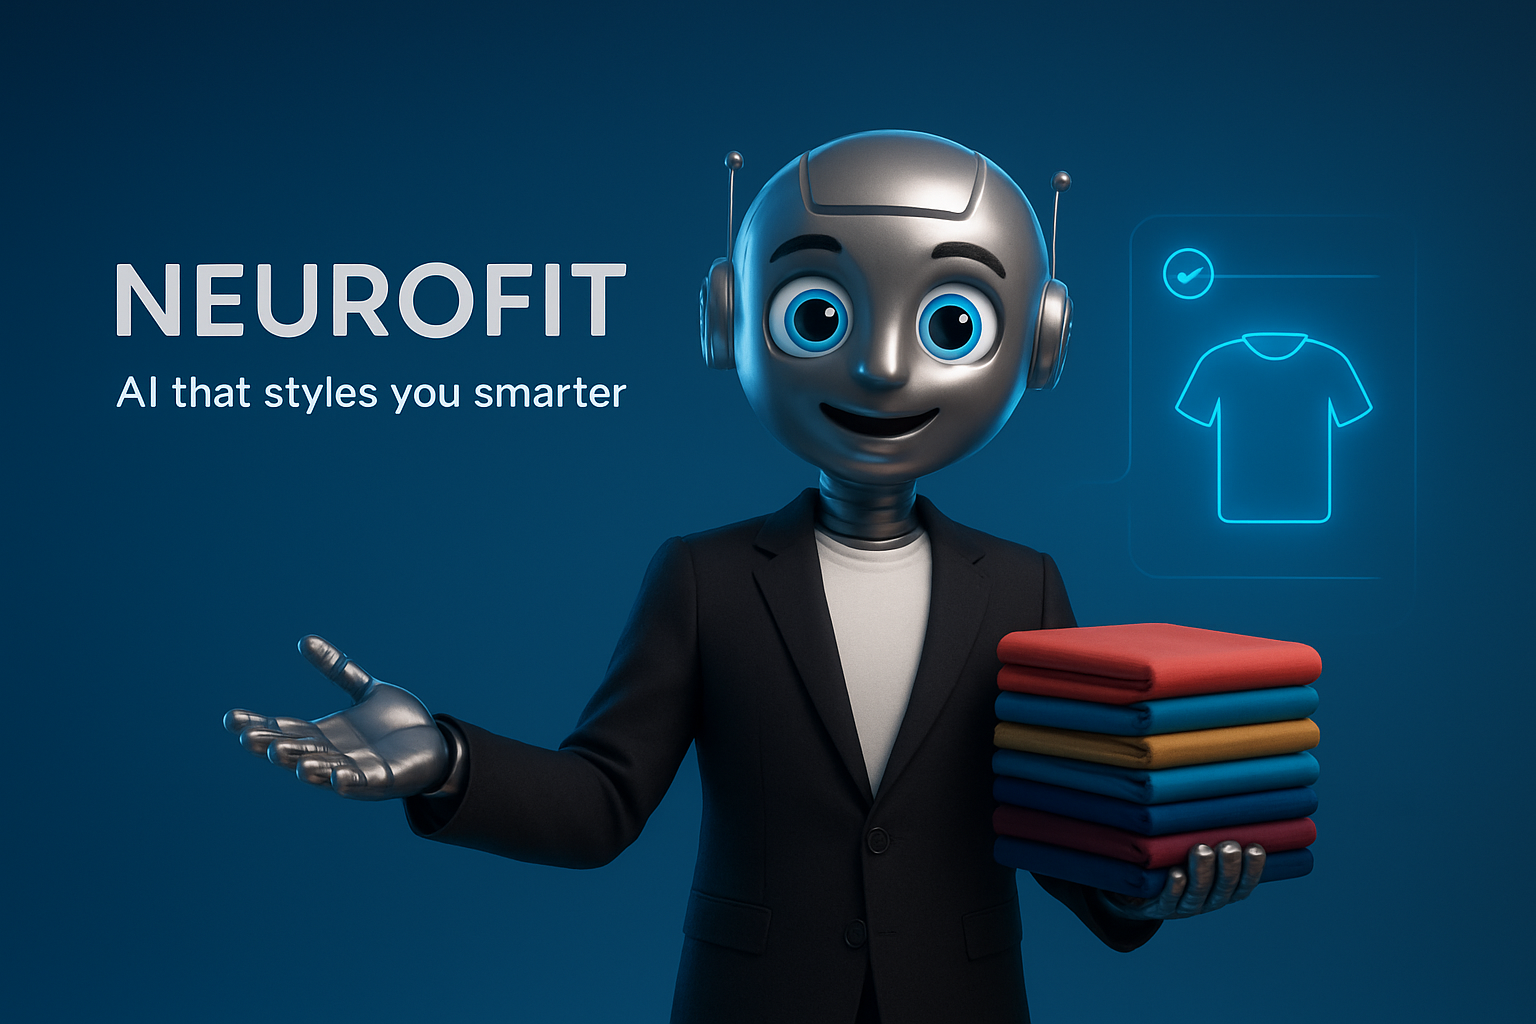
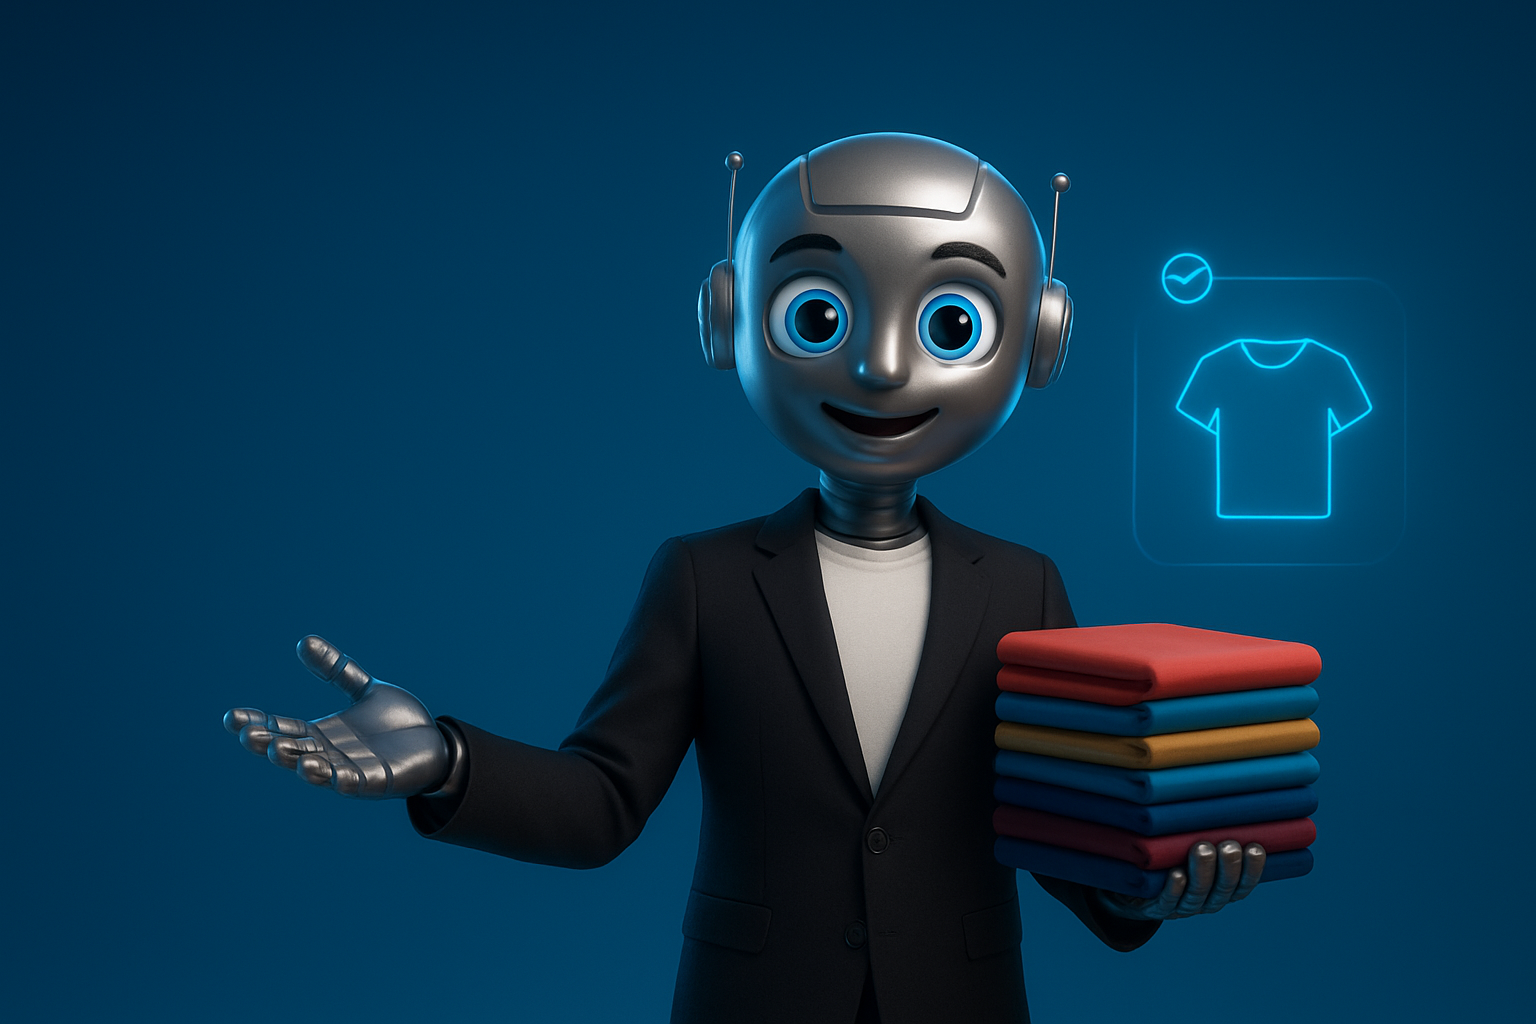
update main page

diff --git a/app/page.tsx b/app/page.tsx
@@ -3,97 +3,113 @@ import Image from "next/image";
 
 export default function Home() {
   return (
-    <main className="flex flex-col items-center space-y-24 py-12">
-      {/* Hero Section */}
-      <section className="relative w-full h-[1000px] overflow-hidden">
-        {/* Background Image */}
+    <main className="flex flex-col items-center w-full">
+
+      {/* 🌟 HERO SECTION */}
+      <section className="relative w-full">
         <Image
           src="/images/main-hero.png"
-          alt="Hero background"
-          fill
+          alt="Hero"
+          width={1920}
+          height={1080}
           priority
-          className="object-cover z-0"
-          sizes="100vw"
+          className="w-full h-auto object-cover"
         />
 
-        {/* Overlay Content */}
-        <div className="absolute inset-0 z-10 flex flex-col items-center justify-center text-center px-4">
-          <h1 className="text-4xl font-bold text-white mb-4">
+        {/* Overlay text */}
+        <div className="absolute inset-0 flex flex-col items-center justify-center text-center px-4 bg-black/20">
+          <h1 className="text-5xl font-bold text-white drop-shadow-lg">
             Welcome to NeuroFit
           </h1>
-          <h2 className="text-xl text-white mb-2">an AI Fashion Store 👗</h2>
-          <p className="text-gray-200 mb-6 max-w-md">
-            See your clothes come to life on AI-generated models.
+
+          <p className="text-white/90 mt-4 text-lg sm:text-xl max-w-xl drop-shadow">
+            AI-powered fashion. Try on styles instantly with generative models.
           </p>
+
           <Link
             href="/generate"
-            className="px-6 py-3 bg-black text-white rounded-lg hover:bg-gray-800 transition text-lg font-semibold shadow-lg"
+            className="mt-6 px-8 py-3 bg-white text-black font-semibold rounded-xl shadow-lg hover:bg-gray-200 transition"
           >
             Try Now
           </Link>
         </div>
       </section>
 
-      {/* Shop Section */}
-      <section className="relative w-full h-auto">
-        {/* Full-width Image Container */}
-        <div className="relative w-full aspect-[2/1]">
-          <Image
-            src="/images/shop-hero.png"
-            alt="Clothing item"
-            fill
-            priority
-            className="object-cover"
-            sizes="100vw"
-          />
+      {/* 🪟 WINDOWS SECTION */}
+      <section className="w-full max-w-6xl px-4 py-20 grid grid-cols-1 sm:grid-cols-2 lg:grid-cols-4 gap-8">
 
-          {/* Centered Button Overlay */}
-          <div className="absolute inset-0 flex items-center justify-center">
-            <Link
-              href="/shop"
-              className="px-6 py-3 bg-blue-600 text-white rounded-lg hover:bg-blue-800 transition text-lg font-semibold shadow-lg"
-            >
-              Shop
-            </Link>
+        {/* SHOP */}
+        <Link href="/shop" className="group">
+          <div className="aspect-square bg-gray-200 rounded-3xl flex items-center justify-center relative overflow-hidden shadow-lg group-hover:shadow-xl transition">
+            <Image
+              src="/images/shop-hero.png"
+              alt="Shop"
+              fill
+              className="object-cover opacity-80 group-hover:opacity-100 transition"
+            />
+            <div className="absolute inset-0 flex items-center justify-center">
+              <div className="px-4 py-2 bg-blue-600 text-white text-xl font-semibold rounded-xl shadow-lg">
+                Shop
+              </div>
+            </div>
           </div>
-        </div>
-      </section>
-
-      {/* Closet Section */}
-      <section className="relative w-full h-auto">
-        <div className="relative w-full aspect-[2/1]">
-          <Image
-            src="/images/closet-hero.png"
-            alt="Mannequin"
-            fill
-            priority
-            className="object-cover rounded-lg"
-            sizes="100vw"
-          />
-          <div className="absolute inset-0 flex items-center justify-center">
-            <Link
-              href="/closet"
-              className="px-6 py-3 bg-green-600 text-white rounded-lg hover:bg-green-800 transition text-lg font-semibold shadow-lg"
-            >
-              Closet
-            </Link>
-          </div>
-        </div>
-      </section>
-
-      {/* Sign In / Sign Up Section */}
-      <section className="flex flex-col items-center justify-center text-center h-[600px] sm:h-[500px]">
-        <h3 className="text-2xl font-semibold mb-4">Join NeuroFit</h3>
-        <p className="text-gray-600 mb-6 max-w-md">
-          Sign in or create an account to save your styles and closet.
-        </p>
-        <Link
-          href="/auth"
-          className="px-6 py-3 bg-purple-600 text-white rounded-lg hover:bg-purple-800 transition text-lg font-semibold shadow-lg"
-        >
-          Sign In / Sign Up
         </Link>
+
+        {/* CLOSET */}
+        <Link href="/closet" className="group">
+          <div className="aspect-square bg-gray-200 rounded-3xl flex items-center justify-center relative overflow-hidden shadow-lg group-hover:shadow-xl transition">
+            <Image
+              src="/images/closet-hero.png"
+              alt="Closet"
+              fill
+              className="object-cover opacity-80 group-hover:opacity-100 transition"
+            />
+            <div className="absolute inset-0 flex items-center justify-center">
+              <div className="px-4 py-2 bg-blue-600 text-white text-xl font-semibold rounded-xl shadow-lg">
+                Closet
+              </div>
+            </div>
+
+          </div>
+        </Link>
+
+        {/* LOGIN / SIGNUP */}
+        <Link href="/auth" className="group">
+          <div className="aspect-square bg-gray-200 rounded-3xl flex items-center justify-center relative overflow-hidden shadow-lg group-hover:shadow-xl transition">
+            <Image
+              src="/images/blank-avatar.png"
+              alt="Login"
+              fill
+              className="object-cover opacity-80 group-hover:opacity-100 transition"
+            />
+            <div className="absolute inset-0 flex items-center justify-center">
+              <div className="px-4 py-2 bg-blue-600 text-white text-xl font-semibold rounded-xl shadow-lg">
+                Sign In
+              </div>
+            </div>
+
+          </div>
+        </Link>
+
+        {/* ABOUT US */}
+        <Link href="/about" className="group">
+          <div className="aspect-square bg-gray-200 rounded-3xl flex items-center justify-center relative overflow-hidden shadow-lg group-hover:shadow-xl transition">
+            <Image
+              src="/images/about-hero.png"
+              alt="About"
+              fill
+              className="object-cover opacity-80 group-hover:opacity-100 transition"
+            />
+            <div className="absolute inset-0 flex items-center justify-center">
+              <div className="px-4 py-2 bg-blue-600 text-white text-xl font-semibold rounded-xl shadow-lg">
+                About Us
+              </div>
+            </div>
+          </div>
+        </Link>
+
       </section>
+
     </main>
   );
 }
